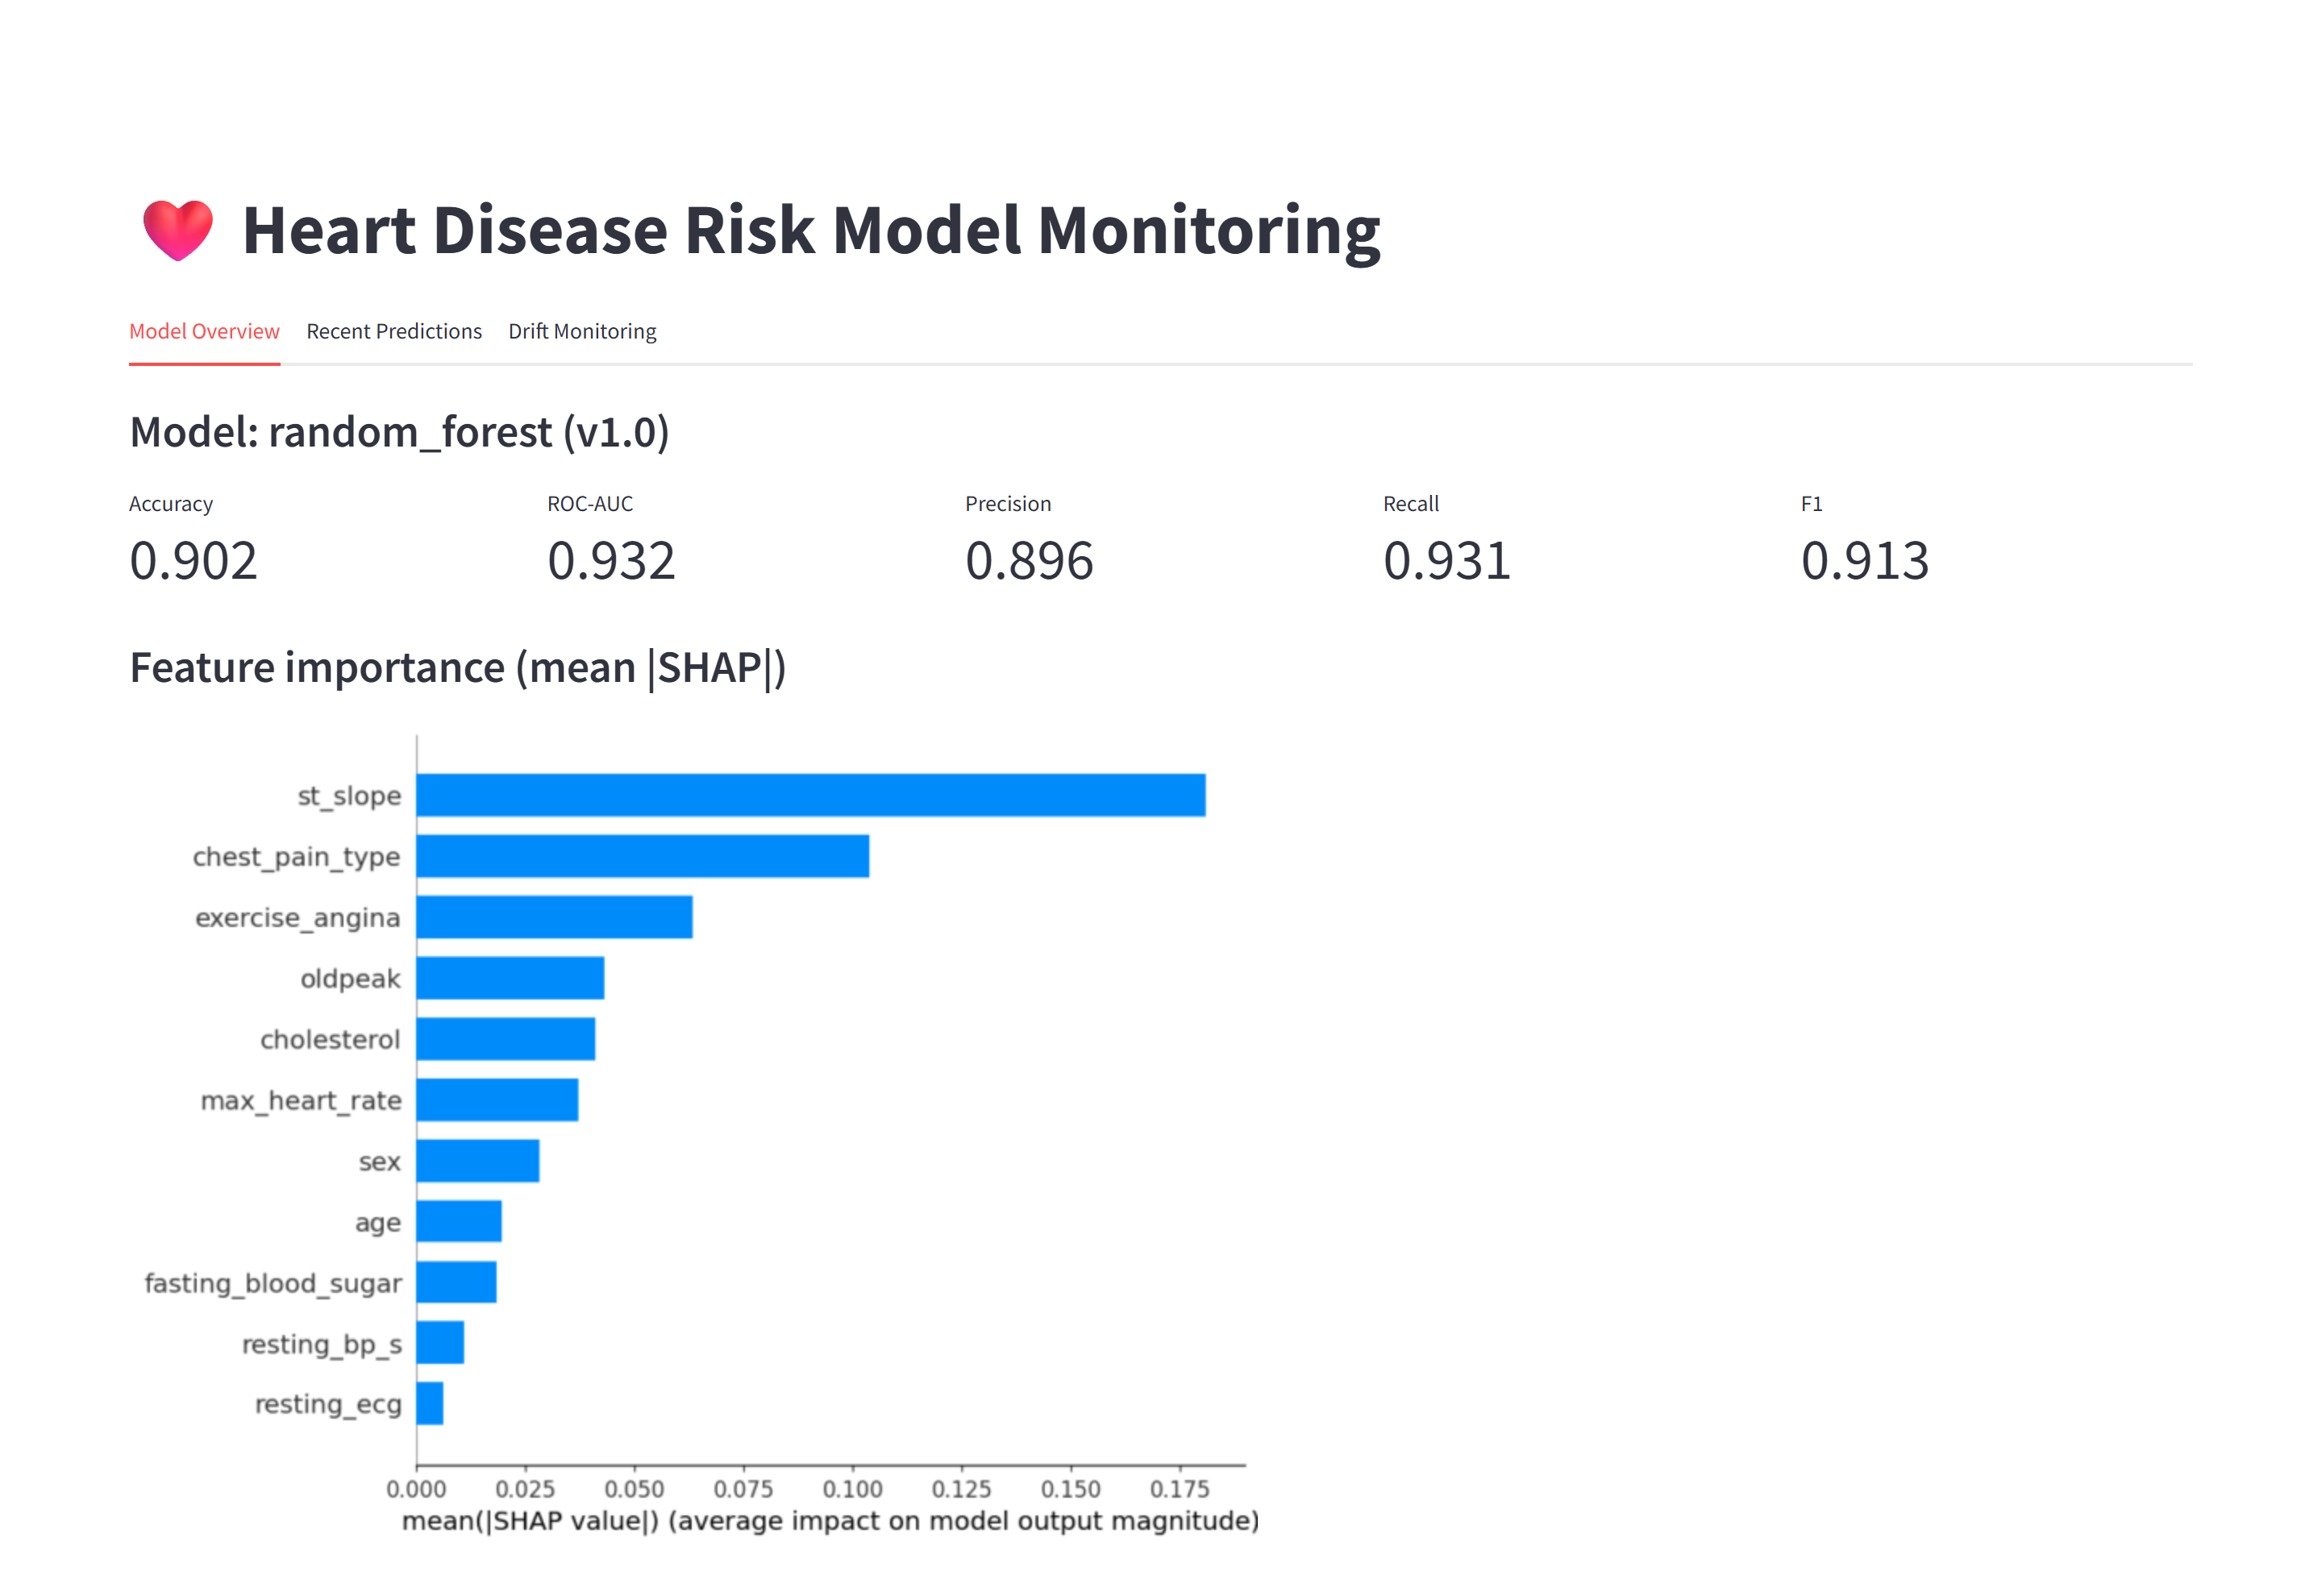
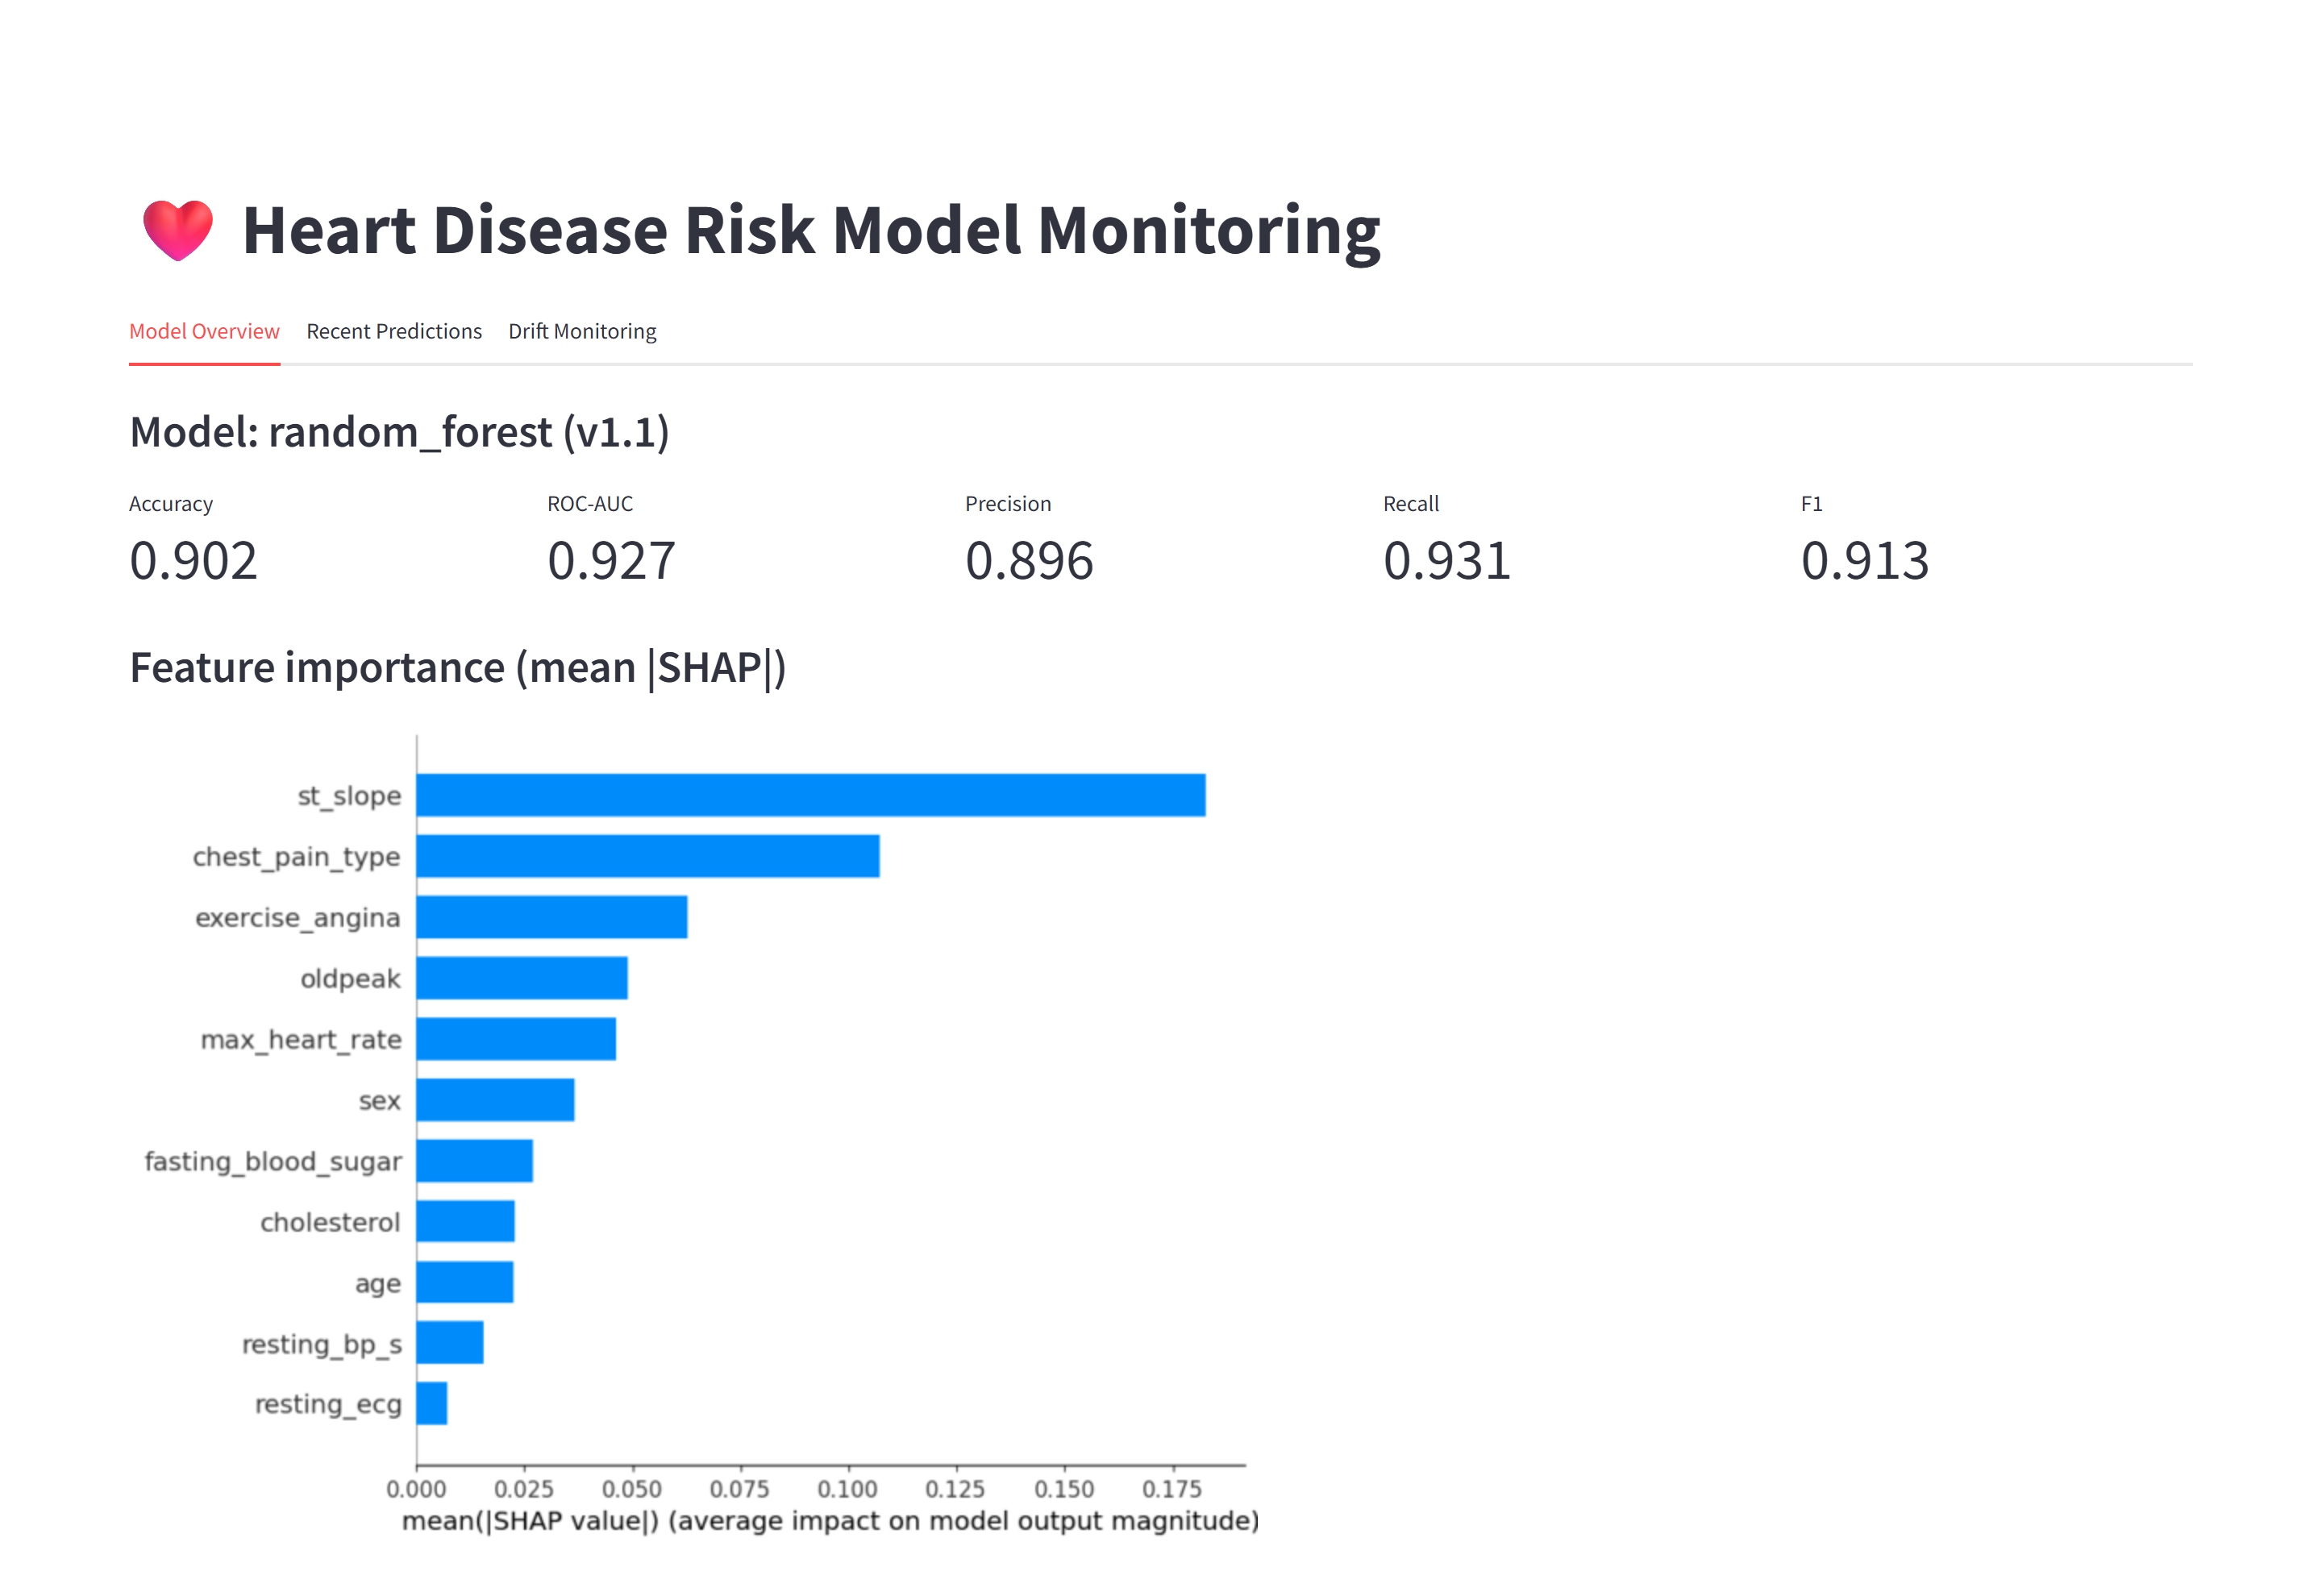
Fix zero-coded missing-value leakage (impute chol/bp), add model card with fairness analysis

diff --git a/src/preprocessing.py b/src/preprocessing.py
@@ -1,0 +1,29 @@
+"""Shared preprocessing used by both training and serving.
+
+In the source datasets, a zero in `cholesterol` or `resting_bp_s` encodes a
+missing measurement, not a true value. Left untreated this leaks a spurious
+signal (missing cholesterol correlates strongly with disease). We replace
+those zeros with the training-set median and apply the exact same transform
+at serve time to avoid train/serve skew.
+
+`oldpeak == 0` is a legitimate clinical value (normal ST depression) and is
+deliberately left alone.
+"""
+
+import pandas as pd
+
+# Columns where 0 means "missing" rather than a real measurement.
+ZERO_AS_MISSING = ["cholesterol", "resting_bp_s"]
+
+
+def fit_impute_values(df: pd.DataFrame) -> dict:
+    """Median of the non-zero values for each missing-coded column (train only)."""
+    return {col: float(df.loc[df[col] > 0, col].median()) for col in ZERO_AS_MISSING}
+
+
+def apply_imputation(df: pd.DataFrame, impute_values: dict) -> pd.DataFrame:
+    """Replace zero-coded missing values with the fitted medians."""
+    df = df.copy()
+    for col, median in impute_values.items():
+        df[col] = df[col].mask(df[col] == 0, median)
+    return df

diff --git a/src/train.py b/src/train.py
@@ -6,7 +6,10 @@ metadata the API and monitoring layers depend on.
 """
 
 import json
+import sys
 from pathlib import Path
+
+sys.path.insert(0, str(Path(__file__).resolve().parents[1]))  # allow `python src/train.py`
 
 import joblib
 import numpy as np
@@ -21,6 +24,8 @@ from sklearn.metrics import (
 )
 from sklearn.model_selection import GridSearchCV, cross_val_score, train_test_split
 from xgboost import XGBClassifier
+
+from src.preprocessing import apply_imputation, fit_impute_values
 
 ROOT = Path(__file__).resolve().parents[1]
 RAW_CSV = ROOT / "data" / "raw" / "heart.csv"
@@ -93,6 +98,12 @@ def main() -> None:
         X, y, test_size=0.2, stratify=y, random_state=RANDOM_STATE
     )
 
+    # Fit zero-as-missing imputation on the training split only, then apply to
+    # both splits (and save it so the API can reproduce it at serve time).
+    impute_values = fit_impute_values(X_train)
+    X_train = apply_imputation(X_train, impute_values)
+    X_test = apply_imputation(X_test, impute_values)
+
     # 5-fold ROC-AUC on the training split; pick the strongest baseline.
     cv_scores = {}
     for name, model in CANDIDATES.items():
@@ -125,15 +136,31 @@ def main() -> None:
         "f1": round(f1_score(y_test, y_pred), 4),
     }
 
+    # Per-sex subgroup metrics on the test set (fairness signal for the model card).
+    subgroup_metrics = {}
+    for label, code in [("female", 0), ("male", 1)]:
+        mask = X_test["sex"] == code
+        if mask.sum() > 0 and y_test[mask].nunique() > 1:
+            subgroup_metrics[label] = {
+                "n": int(mask.sum()),
+                "accuracy": round(accuracy_score(y_test[mask], y_pred[mask]), 4),
+                "roc_auc": round(roc_auc_score(y_test[mask], y_proba[mask]), 4),
+                "recall": round(recall_score(y_test[mask], y_pred[mask]), 4),
+                "positive_rate": round(float(y_test[mask].mean()), 4),
+            }
+
     joblib.dump(model, MODELS / "classifier.joblib")
     joblib.dump(FEATURES, MODELS / "feature_names.joblib")
+    joblib.dump(impute_values, MODELS / "impute_values.joblib")
 
     training_metrics = {
-        "model_version": "1.0",
+        "model_version": "1.1",
         "model_type": best_name,
         "best_params": grid.best_params_,
         "cv_roc_auc": {k: round(v, 4) for k, v in cv_scores.items()},
         "test_metrics": metrics,
+        "subgroup_metrics_by_sex": subgroup_metrics,
+        "impute_values": impute_values,
         "n_train": int(len(X_train)),
         "n_test": int(len(X_test)),
         "features": FEATURES,

diff --git a/api/main.py b/api/main.py
@@ -16,12 +16,15 @@ import shap
 from fastapi import FastAPI
 from pydantic import BaseModel, Field
 
+from src.preprocessing import apply_imputation
+
 ROOT = Path(__file__).resolve().parents[1]
 MODELS = ROOT / "models"
 LOG_PATH = ROOT / "monitoring" / "logs" / "predictions.jsonl"
 
 model = joblib.load(MODELS / "classifier.joblib")
 FEATURES = joblib.load(MODELS / "feature_names.joblib")
+IMPUTE_VALUES = joblib.load(MODELS / "impute_values.joblib")
 TRAINING_METRICS = json.loads((MODELS / "training_metrics.json").read_text())
 explainer = shap.TreeExplainer(model)
 
@@ -86,8 +89,9 @@ def run_drift_report():
 
 @app.post("/predict")
 def predict(patient: PatientFeatures):
-    features = patient.model_dump()
-    row = pd.DataFrame([features])[FEATURES]
+    # Apply the same zero-as-missing imputation the model was trained with.
+    row = apply_imputation(pd.DataFrame([patient.model_dump()])[FEATURES], IMPUTE_VALUES)
+    features = row.iloc[0].to_dict()
 
     risk_score = float(model.predict_proba(row)[0, 1])
     prediction = int(risk_score >= 0.5)

diff --git a/docs/model_card.md b/docs/model_card.md
@@ -1,0 +1,95 @@
+# Model Card: Heart Disease Risk Model
+
+> **Educational project. Not a medical device and not for clinical use.**
+> This model was built to demonstrate an end-to-end MLOps workflow. It must not
+> be used to make or inform real health decisions.
+
+## Model details
+
+- **Type:** RandomForestClassifier (selected over GradientBoosting and XGBoost
+  by 5-fold cross-validated ROC-AUC).
+- **Version:** 1.1
+- **Hyperparameters:** `n_estimators=400`, `max_depth=None`, `min_samples_leaf=2`
+  (tuned with `GridSearchCV` on ROC-AUC).
+- **Inputs:** 11 clinical features (age, sex, chest pain type, resting blood
+  pressure, cholesterol, fasting blood sugar, resting ECG, max heart rate,
+  exercise angina, oldpeak, ST slope).
+- **Output:** probability of heart disease (`risk_score`) and a binary
+  prediction at a **0.5** threshold, with per-prediction SHAP attributions.
+
+## Intended use
+
+- **In scope:** demonstrating model serving, explainability, and monitoring on a
+  well-known benchmark dataset; learning and portfolio purposes.
+- **Out of scope:** any real clinical, diagnostic, insurance, or screening
+  decision. The model is trained on a small public dataset and has not been
+  validated on any real-world population.
+
+## Training data
+
+- Combined UCI heart-disease dataset: 918 rows after de-duplication, split 80/20
+  stratified (`random_state=42`) into 734 train / 184 test.
+- **Data-quality handling:** in the source data a value of `0` for `cholesterol`
+  (18.7% of rows) or `resting_bp_s` encodes a *missing* measurement, not a real
+  reading. Left untreated this leaks a spurious signal: rows with missing
+  cholesterol have an 88% disease rate versus 55% overall, so the model would
+  learn "cholesterol field is blank" rather than a clinical relationship. These
+  zeros are replaced with the **training-set median** (`cholesterol=238`,
+  `resting_bp_s=130`), fit on the training split only and applied identically at
+  serve time to avoid train/serve skew. `oldpeak=0` is a legitimate clinical
+  value and is deliberately left unchanged.
+
+## Performance (held-out test set, n=184)
+
+| Metric | Value |
+|---|---|
+| Accuracy | 0.902 |
+| ROC-AUC | 0.927 |
+| Precision | 0.896 |
+| Recall | 0.931 |
+| F1 | 0.914 |
+
+Removing the missing-value leakage described above changed ROC-AUC only
+marginally (0.932 → 0.927), which indicates the model's signal comes from
+genuine features (ST slope, chest pain type, exercise angina) rather than the
+data artifact.
+
+## Fairness analysis (by sex)
+
+| Subgroup | n | Positive rate | Accuracy | ROC-AUC | Recall |
+|---|---|---|---|---|---|
+| Female | 38 | 0.158 | 0.947 | 0.953 | 0.833 |
+| Male | 146 | 0.658 | 0.890 | 0.905 | 0.938 |
+
+**Concerns:**
+
+- **Representation:** the data is heavily skewed toward men (79% of the test
+  set), and the female subgroup (n=38, ~6 positive cases) is too small for
+  reliable metric estimates.
+- **Recall gap:** female recall (0.833) is lower than male recall (0.938),
+  meaning the model misses proportionally more true-positive women. On this
+  sample size the estimate is noisy, but the direction is a known risk in
+  cardiac models and would need a larger, balanced dataset to assess properly.
+- The base rates differ sharply between groups (16% vs 66%), so a single global
+  threshold does not treat the groups equivalently.
+
+## Limitations
+
+- **Uncalibrated probabilities:** `risk_score` is the raw RandomForest
+  `predict_proba` output and has not been calibrated, so it should be read as a
+  relative ranking, not a true probability.
+- **Fixed 0.5 threshold:** not tuned for any clinical cost trade-off (in a real
+  setting, false negatives usually cost far more than false positives).
+- **No performance monitoring:** the drift monitor compares input distributions
+  only. Detecting *accuracy* drift requires ground-truth outcomes, which this
+  system does not collect.
+- **Small, non-representative data:** results will not transfer to a real
+  patient population.
+
+## Ethical considerations
+
+- A false negative (missing real disease) is the most harmful error mode and is
+  not adequately controlled by the current threshold.
+- The model must never be presented to a patient or clinician as a diagnosis.
+- Any real deployment would require calibration, a justified decision threshold,
+  subgroup validation on a representative population, and regulatory review.

diff --git a/README.md b/README.md
@@ -21,6 +21,9 @@ combined UCI heart-disease dataset (11 clinical features, binary target).
 
 - **Training pipeline** with model selection (RandomForest / GradientBoosting /
   XGBoost) by cross-validated ROC-AUC and GridSearch hyperparameter tuning.
+- **Data-quality handling** for zero-coded missing values (a known leakage trap
+  in this dataset), imputed consistently at train and serve time. See the
+  [model card](docs/model_card.md) for details and a fairness analysis.
 - **FastAPI serving** with Pydantic input validation, calibrated risk scores,
   and per-prediction SHAP explanations returning the top risk factors.
 - **Prediction logging** to a structured store that feeds downstream monitoring.